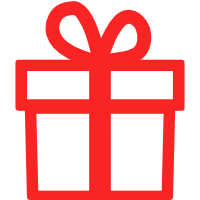
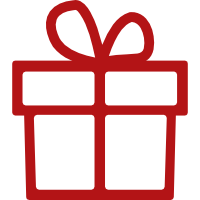
prettify

diff --git a/src/Navigation.jsx b/src/Navigation.jsx
@@ -20,6 +20,7 @@ import {
     Container
 } from 'reactstrap';
 import { addWish, createWisher } from './firebase/functions'
+import logo from './images/logo.png'
 
 export class Navigation extends React.Component {
     constructor(props) {
@@ -36,7 +37,7 @@ export class Navigation extends React.Component {
             wishers: props.wishers,
             badNewPerson: false,
             isNavOpen: false,
-            isModalOpen: false
+            isModalOpen: true
         }
 
         this.handleSubmission = this.handleSubmission.bind(this)
@@ -59,11 +60,15 @@ export class Navigation extends React.Component {
             wishers
         } = this.state
 
-        if (title !== '' && (selectedPerson !== '' || newPerson !== '')) {
-            const tempDescription = (description ? description : '')
-            const tempLink = (link ? 'http://'+link : '')
+        if ((
+                title !== '' && title !== undefined && title !== null)
+                && ((selectedPerson !== '' && selectedPerson !== undefined && selectedPerson !== null)
+                || (newPerson !== '' && newPerson !== undefined && newPerson !== null))
+            ) {
+            const tempDescription = (description === undefined || description === null ? '' : description)
+            const tempLink = (link === undefined || link === null ? '' : 'http://'+link)
             
-            if (newPerson !== '') {
+            if (newPerson !== '' && newPerson !== undefined && newPerson !== null) {
                 createWisher(newPerson, title, tempDescription, tempLink)
                 let tempArr = [newPerson]
                 for (let i = 0; i < wishers.length; i++) {
@@ -107,10 +112,10 @@ export class Navigation extends React.Component {
         } else {
             let badTitle = false
             let badNewPerson = false
-            if (title === '') {
+            if (title === '' || title === undefined || title == null) {
                 badTitle = true
             }
-            if (selectedPerson === '') {
+            if (selectedPerson === '' || selectedPerson === undefined || selectedPerson == null) {
                 badNewPerson = true
             }
             this.setState({
@@ -161,48 +166,63 @@ export class Navigation extends React.Component {
             userInput,
             isNavOpen,
             isModalOpen,
-            badNewPerson,
+            // badNewPerson,
             badTitle,
             wishers
         } = this.state
 
         return (
-            <Navbar color='light' light expand='md' className='sticky-top'>
+            // <Navbar color='light' light expand='md' className='sticky-top'>
+            <Navbar expand='md' className='sticky-top nav-style' dark>
                 <Container className='align-items-center'>
-                <NavbarBrand href='/'>2019 Wish List</NavbarBrand>
+                {/* <NavbarBrand href='/'>2019 Wish List</NavbarBrand> */}
+                <NavbarBrand>
+                    <img style={{ height: '4rem' }} src={logo} alt={'>:3'} />
+                </NavbarBrand>
                 <NavbarToggler onClick={this.toggleNav} />
                 <Collapse isOpen={isNavOpen} navbar>
                     <Nav style={{minWidth:'300px'}} className='ml-auto pt-3 pt-md-0 pb-1' navbar>
                         <Form className='w-100'>
-                            <Input className='w-100' type='select' name='select' value={userInput.selectedPerson} onChange={this.handleSelectedPerson}>
+                            <Input className='w-100 d-none d-md-block' type='select' name='select' value={userInput.selectedPerson} onChange={event => {
+                                this.handleSelectedPerson(event)
+                            }}>
+                                {wishers.map((wisher, key) => {
+                                    return <option value={wisher} key={`wishers-nav-${(key+1)}`}>{wisher}</option>
+                                })}
+                            </Input>
+                            <Input className='w-100 d-block d-md-none' type='select' name='select' value={userInput.selectedPerson} onChange={event => {
+                                this.handleSelectedPerson(event)
+                                this.toggleNav()
+                            }}>
                                 {wishers.map((wisher, key) => {
                                     return <option value={wisher} key={`wishers-nav-${(key+1)}`}>{wisher}</option>
                                 })}
                             </Input>
                         </Form>
                         <div className='mx-0 mx-md-2 my-2 my-md-0'></div>
-                        <Button className='w-100 d-none d-md-block' onClick={this.toggleModal}>Add a Wish &#10010;</Button>
-                        <Button className='w-100 d-block d-md-none' onClick={() => {
+                        <Button className='w-100 d-none d-md-block border-0' style={{background:'rgb(179, 20, 22)'}} onClick={this.toggleModal}>Add a Wish &#10010;</Button>
+                        <Button className='w-100 d-block d-md-none border-0' style={{background:'rgb(179, 20, 22)'}} onClick={() => {
                             this.toggleModal()
                             this.toggleNav()
                         }}>Add a Wish &#10010;</Button>
                     </Nav>
                 </Collapse>
-                <Modal isOpen={isModalOpen} modalTransition={{ timeout: 250 }} backdropTransition={{ timeout: 250 }} toggle={this.toggleModal}>
-                    <ModalHeader toggle={this.toggleModal}>Wishy wish wash</ModalHeader>
+                <Modal style={{background:'rgb(235,236,240)', borderRadius:'4px', border:'none'}} isOpen={isModalOpen} modalTransition={{ timeout: 250 }} backdropTransition={{ timeout: 250 }} toggle={this.toggleModal}>
+                    <ModalHeader toggle={this.toggleModal}>Wishy Wish Wash</ModalHeader>
                     <ModalBody>
                         <Form onSubmit={this.handleSubmission}>
                             <Row>
-                                <Col xs='12' md='4'>
+                                {/* <Col xs='12' md='4'> */}
+                                <Col xs='12'>
                                     <Input className='mb-2' type='select' name='select' value={userInput.selectedPerson} onChange={this.handleSelectedPerson}>
                                         {wishers.map((wisher, key) => {
                                             return <option value={wisher} key={`wishers-modal-${(key+1)}`}>{wisher}</option>
                                         })}
                                     </Input>
                                 </Col>
-                                <Col xs='12' md='8'>
+                                {/* <Col xs='12' md='8'>
                                     <Input invalid={badNewPerson ? true : false} className='mb-2' value={userInput.newPerson} onChange={this.handleUserInput} type='text' name='newPerson' placeholder={badNewPerson ? 'my guy type in your name' : 'new wisher name'} />
-                                </Col>
+                                </Col> */}
                             </Row>
                             <Input invalid={badTitle ? true : false} value={userInput.title} onChange={this.handleUserInput} type='text' name='title' placeholder={badTitle ? 'must enter your wish' : 'your wish'} />
                             <Input value={userInput.description} onChange={this.handleUserInput} className='my-2' type='text' name='description' placeholder='description' />
@@ -216,9 +236,10 @@ export class Navigation extends React.Component {
                         </Form>
                     </ModalBody>
                     <ModalFooter className='d-flex flex-column flex-md-row justify-content-center align-items-center'>
-                        <Button className='w-100 m-0' color='secondary' onClick={this.toggleModal}>Cancel</Button>
+                        <Button className='w-100 m-0 border-0' color='secondary' onClick={this.toggleModal}>Cancel</Button>
                         <div className='mx-0 mx-md-2 my-1 my-md-0'></div>
-                        <Button className='w-100 m-0' color='primary' onClick={this.handleSubmission}>Add your Wish</Button>
+                        {/* <Button className='w-100 m-0' style={{background:'rgb(13,31,65)'}} onClick={this.handleSubmission}>Add your Wish</Button> */}
+                        <Button className='w-100 m-0 border-0' style={{background:'rgb(179, 20, 22)'}} onClick={this.handleSubmission}>Add your Wish</Button>
                     </ModalFooter>
                 </Modal>
                 </Container>

diff --git a/src/App.jsx b/src/App.jsx
@@ -15,8 +15,8 @@ import {
 } from 'reactstrap'
 import { db } from './firebase/Firebase'
 
-import grayGift from './images/gray_gift.png'
-import redGift from './images/red_gift.png'
+import uncheckedGift from './images/white_gift.png'
+import checkedGift from './images/red_gift.png'
 import popOutLink from './images/bluePopOutLink.png'
 
 class App extends React.Component {
@@ -161,31 +161,29 @@ class App extends React.Component {
             <Modal isOpen={isModalOpen} modalTransition={{ timeout: 250 }} backdropTransition={{ timeout: 250 }} toggle={this.toggleModal}>
                 <ModalHeader toggle={this.toggleModal}>Please don't erase me <span role='img' aria-label='sad-face-emoji'>🥺🥺</span></ModalHeader>
                 <ModalFooter className='d-flex flex-column flex-md-row justify-content-center align-items-center'>
-                    <Button className='w-100 m-0' color='danger' onClick={() => {
+                    <Button className='w-100 m-0 border-0' style={{background:'rgb(179, 20, 22)'}} onClick={() => {
                         this.handleRemove(currDeleteKey)
                         this.toggleModal()
                     }}>I don't even know you...</Button>
                     <div className='mx-0 mx-md-2 my-1 my-md-0'></div>
-                    <Button className='w-100 m-0' color='primary' onClick={this.toggleModal}>What! No, I'm sorry!</Button>
+                    <Button className='w-100 m-0 border-0' color='primary' onClick={this.toggleModal}>What! No, I'm sorry!</Button>
                 </ModalFooter>
             </Modal>
         )
 
         const Stuff = () => (
             <Container>
-                <Row>
-                    {(wishes.length === 0) ? (<Alert color='light' className='w-100 mt-4 text-center border-0'>So sad! No wishes here :(</Alert>) : wishes.map((wish, key) => 
-                        <Col key={`card-${key+1}-${Date.now()}`} xs='12' md='6' className='mb-2 mb-md-4'>
-                            <div style={{ borderRadius:'4px', margin:'5px'}} className='mx-0 p-1 bg-light h-100'>
-                                <div className='d-flex flex-row w-100'>
+                <Row className='mt-2 mb-5'>
+                    {(wishes.length === 0) ? (<Alert style={{background:'transparent'}} className='w-100 text-white mt-4 text-center border-0'>So sad! No wishes here :(</Alert>) : wishes.map((wish, key) => 
+                        <Col key={`card-${key+1}-${Date.now()}`} xs='12' md='6' className=''>
+                            <div style={{ borderRadius:'4px', background:'rgb(235,236,240)'}} className='card-thing mt-4 mt-md-3 mx-0 d-flex flex-column'>
+                                <div className='d-flex flex-row w-100 h-100'>
                                     {/* Gift checkbox */}
-                                    <div className='px-1 pt-1'>
-                                        <div onClick={() => this.handleCheckbox(key)}>
-                                        <img style={{ height: '30px' }} src={wish[1].checked ? redGift : grayGift} alt={'>:3'} />
-                                        </div>
+                                    <div className='mr-1 d-flex align-items-center justify-content-center p-2 h-auto' style={{ background:'rgb(13,31,65)', borderRadius:'4px 0 0 4px' }} onClick={() => this.handleCheckbox(key)}>
+                                        <img className='align-self-center' style={{ height: '2.5rem' }} src={wish[1].checked ? checkedGift : uncheckedGift} alt={'>:3'} />
                                     </div>
                                     {/* Body of card (title and description)*/}
-                                    <div className='d-flex flex-column px-1 pt-1 w-100'>
+                                    <div className='d-flex flex-column justify-content-center px-1 pt-1 w-100 h-auto'>
                                         {/* Title of card */}
                                         <div className='d-flex align-items-center'>
                                             <h4>{
@@ -199,15 +197,15 @@ class App extends React.Component {
                                             }</h4>
                                         </div>
                                         {/* Description of card */}
-                                        {wish[1].description !== '' ? <div>
+                                        {wish[1].description !== '' ? <div className='d-flex align-items-center'>
                                             <p className='text-secondary'>{wish[1].description}</p>
                                         </div> : null}
                                     </div>
                                     {/* Erase card */}
-                                    <div className='px-1 pt-1 ml-auto'>
-                                        <Button close style={{ marginTop:'2px' }} onClick={() => {
+                                    <div className='ml-auto p-0 m-0 h-auto d-flex flex-row align-items-center' style={{background:'rgb(179, 20, 22)', borderRadius:'0 4px 4px 0', }}>
+                                        <Button className='border-0 m-0 py-1 px-2' style={{background:'transparent'}} onClick={() => {
                                             this.toggleModal(key)
-                                        }}/>
+                                        }}><span style={{fontSize: '2rem', fontWeight:'bold', color:'rgb(235,236,240)'}}>&#215;</span></Button>
                                     </div>
                                 </div>
                             </div>
@@ -217,12 +215,14 @@ class App extends React.Component {
             </Container>
         )
 
+        document.body.classList.add('all')
+
         return (
             <div>
                 { isBlackscreen ? <Blackscreen /> : null }
                 { isLoading ? <Card /> :
                 <div>
-                    <Navigation wishers={wishers} changeSelectedWisher={this.changeSelectedWisher}/>
+                    <Navigation wishers={wishers} changeSelectedWisher={this.changeSelectedWisher} />
                     <WarningModal />
                     <Stuff />
                 </div>

diff --git a/src/index.css b/src/index.css
@@ -2,3 +2,19 @@
     margin: 0;
     padding: 0;
 }
+
+.all {
+    /* background: rgb(253, 250, 234); */
+    background: url(./images/background.jpg) no-repeat center center fixed;
+    background-size: cover;
+}
+
+.card-thing {
+    box-shadow: 0 10px 20px 5px rgba(0,0,0,.1);
+}
+
+.nav-style {
+    /* background: rgba(13,31,65,.95); */
+    background: rgba(13,31,65,.7);
+    box-shadow: 0 10px 20px 5px rgba(0,0,0,.05);
+}

diff --git a/public/index.html b/public/index.html
@@ -2,7 +2,7 @@
 <html lang="en">
   <head>
     <meta charset="utf-8" />
-    <link rel="icon" type="image/png" href="%PUBLIC_URL%/favicon.ico" />
+    <link rel="icon" type="image/png" href="%PUBLIC_URL%/favicon.png" />
     <meta name="viewport" content="width=device-width, initial-scale=1" />
     <meta name="theme-color" content="#000000" />
     <!--
